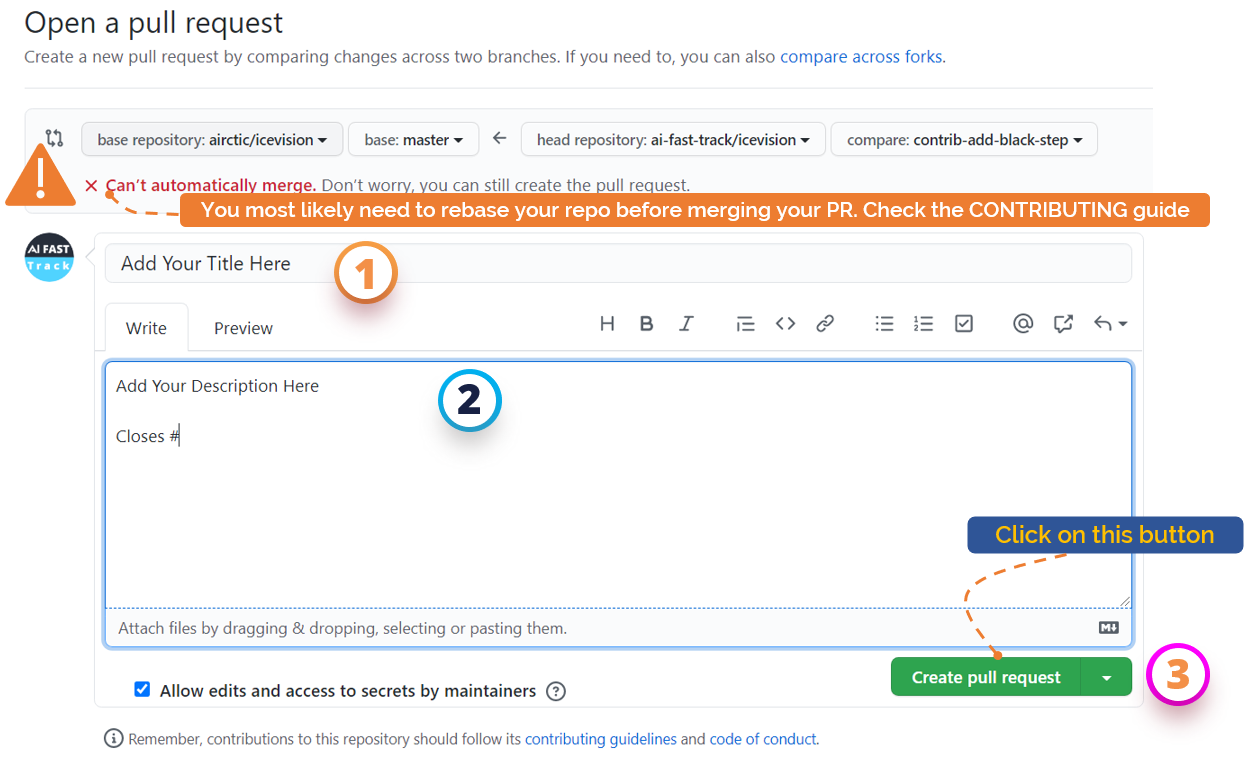
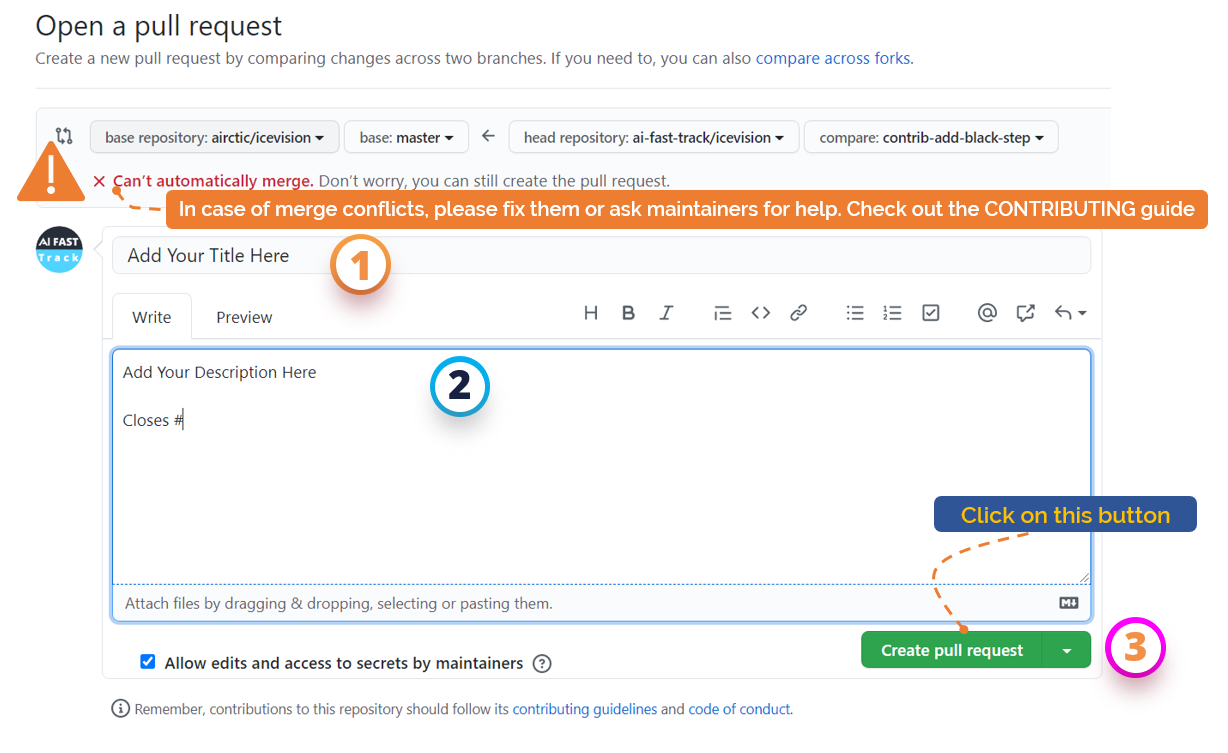
Removed rebase section, and added images (#423)
* added images

* removed rebase section and added images

diff --git a/CONTRIBUTING.md b/CONTRIBUTING.md
@@ -81,17 +81,8 @@ git commit -m "Your meaningful commit message for the change."
 
 Add more commits, if necessary.
 
-## Step 5: Rebase your repository
 
-It is a good practice to sync your repository code with the original repository, on a regular basis. This will avoid your repository code base diverging from the original repository one:
-
-```bash
-git fetch upstream
-git rebase upstream/master
-```
-
-
-## Step 6: Submitting a Pull Request
+## Step 5: Submitting a Pull Request
 
 ### 1. Create a pull request git
 
@@ -157,13 +148,7 @@ Click **Resolve conflicts** button near the bottom of your pull request.
 Then, a file with conflict will be shown with conflict markers `<<<<<<<`,
 `=======`, and `>>>>>>>`.
 
-```
-<<<<<<< edit-contributor
-Local Change
-=======
-Remote Change
->>>>>>> master
-```
+![image](images/merge-conflicts.png)
 
 The line between `<<<<<<<` and `=======` is your local change and
 the line between `=======` and `>>>>>>>` is the remote change. Make the
